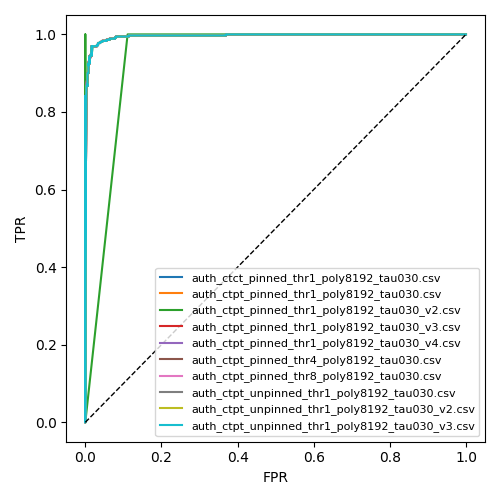
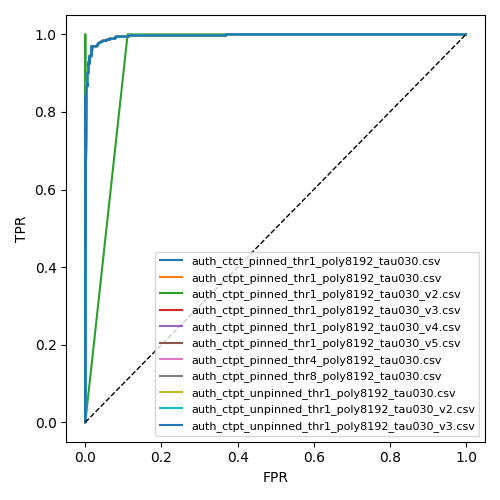
Update benchmark results and generated figures

diff --git a/results/tables/latency_table.tex b/results/tables/latency_table.tex
@@ -36,6 +36,14 @@ auth_ctpt_pinned_thr1_poly8192_tau030_v4.csv & end_to_end_ms & 395.699829 & 388.
 auth_ctpt_pinned_thr1_poly8192_tau030_v4.csv & chain_request_ms & 37.411993 & 35.110000 & 56.882400 \\
 auth_ctpt_pinned_thr1_poly8192_tau030_v4.csv & chain_decide_ms & 34.962928 & 32.337500 & 55.273450 \\
 auth_ctpt_pinned_thr1_poly8192_tau030_v4.csv & chain_total_ms & 72.374897 & 68.098000 & 104.705200 \\
+auth_ctpt_pinned_thr1_poly8192_tau030_v5.csv & embed_ms & 311.756411 & 299.542500 & 399.422800 \\
+auth_ctpt_pinned_thr1_poly8192_tau030_v5.csv & ipfs_cat_ms & 9.365422 & 8.243500 & 16.207600 \\
+auth_ctpt_pinned_thr1_poly8192_tau030_v5.csv & he_eval_ms & 31.655114 & 29.293000 & 43.318800 \\
+auth_ctpt_pinned_thr1_poly8192_tau030_v5.csv & decrypt_ms & 1.424101 & 1.311500 & 1.895350 \\
+auth_ctpt_pinned_thr1_poly8192_tau030_v5.csv & end_to_end_ms & 445.848025 & 432.877000 & 576.564800 \\
+auth_ctpt_pinned_thr1_poly8192_tau030_v5.csv & chain_request_ms & 48.577400 & 48.284000 & 59.486550 \\
+auth_ctpt_pinned_thr1_poly8192_tau030_v5.csv & chain_decide_ms & 47.217731 & 47.505500 & 57.841450 \\
+auth_ctpt_pinned_thr1_poly8192_tau030_v5.csv & chain_total_ms & 95.795122 & 95.730500 & 113.606250 \\
 auth_ctpt_pinned_thr4_poly8192_tau030.csv & embed_ms & 193.727906 & 193.514000 & 228.176200 \\
 auth_ctpt_pinned_thr4_poly8192_tau030.csv & ipfs_cat_ms & 4.651433 & 4.314000 & 6.027450 \\
 auth_ctpt_pinned_thr4_poly8192_tau030.csv & he_eval_ms & 24.334757 & 23.225500 & 32.541800 \\

diff --git a/results/tables/accuracy_table.tex b/results/tables/accuracy_table.tex
@@ -7,6 +7,7 @@ auth_ctpt_pinned_thr1_poly8192_tau030.csv & 0.038889 & 0.022222 & 0.969444 \\
 auth_ctpt_pinned_thr1_poly8192_tau030_v2.csv & 0.000000 & 0.000000 & 1.000000 \\
 auth_ctpt_pinned_thr1_poly8192_tau030_v3.csv & 0.038889 & 0.022222 & 0.969444 \\
 auth_ctpt_pinned_thr1_poly8192_tau030_v4.csv & 0.038889 & 0.022222 & 0.969444 \\
+auth_ctpt_pinned_thr1_poly8192_tau030_v5.csv & 0.038889 & 0.022222 & 0.969444 \\
 auth_ctpt_pinned_thr4_poly8192_tau030.csv & 0.038889 & 0.022222 & 0.969444 \\
 auth_ctpt_pinned_thr8_poly8192_tau030.csv & 0.038889 & 0.022222 & 0.969444 \\
 auth_ctpt_unpinned_thr1_poly8192_tau030.csv & 0.038889 & 0.022222 & 0.969444 \\